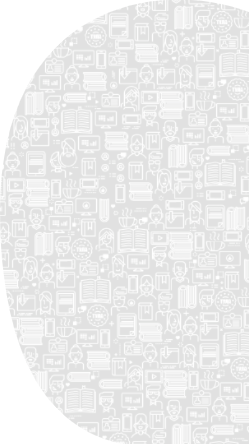
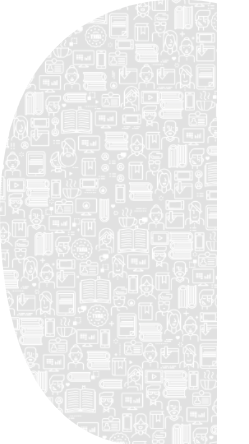
lab 2 prac completed

Changed region(s): [[0.8715, 0.0, 1.0, 1.0]]

diff --git a/web-prac/lab2/styles.css b/web-prac/lab2/styles.css
@@ -14,11 +14,12 @@ body {
 
 .header {
     height: 80px;
-    width: 100%;
-    max-width: 2000px;
+    /* width: 100%; */
+    width: 1294px;
     position: fixed;
     top: 0;
     left: 0;
+    right: 0;
     display: flex;
     box-shadow: 15px 3px 18px gray,
         -15px 3px 18px gray;
@@ -27,10 +28,20 @@ body {
     gap: 18px;
     background-color: white;
     z-index: 100;
+    margin: 0 auto;
+
+    @media (max-width: 320px){
+        box-shadow: none !important;
+        display: ruby;
+    }
 }
 
 .header .logo {
     padding-left: 72px;
+
+    @media (max-width: 320px){
+        padding-left: 5px;
+    }
 }
 
 .header .text {
@@ -39,29 +50,45 @@ body {
     /* padding-top: 15px; */
 }
 
-.header .menu {
+.header-menu {
     width: 900px;
     height: 18px;
+
     padding-left: 133px;
-    /* padding-top: 32px; */
     color: rgb(139, 157, 230);
-    /* display: inline-flex; */
+
+    @media (max-width:320px) {
+        display: none !important;
+    } 
 }
 
-.header .menu a {
+.header-menu a {
     text-decoration: none;
     color: rgb(139, 157, 230);
     font-size: 17px;
     padding-right: 10px;
 }
 
-.header .menu a:hover {
+.header-menu:hover {
     color: black;
 }
 
+.burger-mobile-menu {
+    display: none;
+
+    @media (max-width:320px) {
+        display: flex !important;
+    } 
+}
+
+.burger-mobile-menu img {
+    height: 20px;
+    width: 45px;
+}
+
 .main {
-    max-width: 1146px;
-    width: 100%;
+    width: 1146px;
+    /* width: 100%; */
     height: auto;
     padding-top: 98px;
     margin: 0 auto;
@@ -240,9 +267,9 @@ body {
 }
 
 .basement {
-    width: 100%;
+    /* width: 100%; */
     height: 380px;
-    max-width: 1146px;
+    width: 1294px;
 
     bottom: 0;
     margin: 0 auto;
@@ -250,6 +277,7 @@ body {
     z-index: 1;
 
     justify-items: center;
+    position: relative;
 }
 
 .basement-hight {
@@ -257,13 +285,14 @@ body {
     justify-items: center;
 
     height: 200px;
+    /* width: 1294px;    */
 }
 
 .basement-logo {
     width: 470px;
     height: 120px;
 
-    padding-right: 130px;
+    padding-right: 160px;
 
     display: flex;
 }
@@ -319,7 +348,8 @@ body {
 .basement-hr {
     border: none;
     border-top: 1px solid rgb(139, 157, 230);
-    width: 100%;
+
+    width: 1146px;
 }
 
 .basement-low {
@@ -327,10 +357,10 @@ body {
 
     display: flex;
     align-items: flex-start;
-    justify-self: flex-start;
+    /* justify-self: flex-start; */
 
-    width: 100%;
-    max-width: 1146px;
+    /* width: 100%; */
+    width: 1146px;
 }
 
 .basement-copyright {
@@ -344,5 +374,6 @@ body {
     position: absolute;
     bottom: 0;
     right: 0;
-    z-index: 0;
+    z-index: -1;
+    width: 217px;
 }

diff --git a/web-prac/lab2/index.html b/web-prac/lab2/index.html
@@ -2,15 +2,20 @@
 <html>
 
 <head>
-    <title>Лабораторная работа 2</title>
+    <meta charset="UTF-8">
+    <meta name="viewport"
+          content="width=device-width, user-scalable=no, initial-scale=1.0, maximum-scale=1.0, minimum-scale=1.0">
+    <meta http-equiv="X-UA-Compatible" content="ie=edge">
     <link rel="stylesheet" href="styles.css">
+    <title>Лабораторная работа 2</title>
+
 </head>
 
 <body>
     <div class="header">
         <img class="logo" src="img/logo.png">
         <img class="text" src="img/title.png">
-        <div class="menu">
+        <div class="header-menu">
             <a href="#">Афиша</a>
             <a href="#">Новости</a>
             <a href="#">Проекты</a>
@@ -18,6 +23,9 @@
             <a href="#">Услуги</a>
             <a href="#">Об организации</a>
             <a href="#">Контакты</a>
+        </div>
+        <div class="burger-mobile-menu">
+            <img src="img/burger.png">
         </div>
     </div>
 
@@ -153,12 +161,14 @@
             <img src="img/© 2019 ГУК ТО _РБИК_.png" class="basement-copyright">
             <img src="img/Screenshot 2019-08-25 at 21.27.png">
         </div>
+
+        <div class="basement-vector-img">
+            <img src="img/Vector.png">
+        </div>
     </div>
 
 
-    <div class="basement-vector-img">
-        <img src="img/Vector.png">
-    </div>
+    
 </body>
 
 </html>
